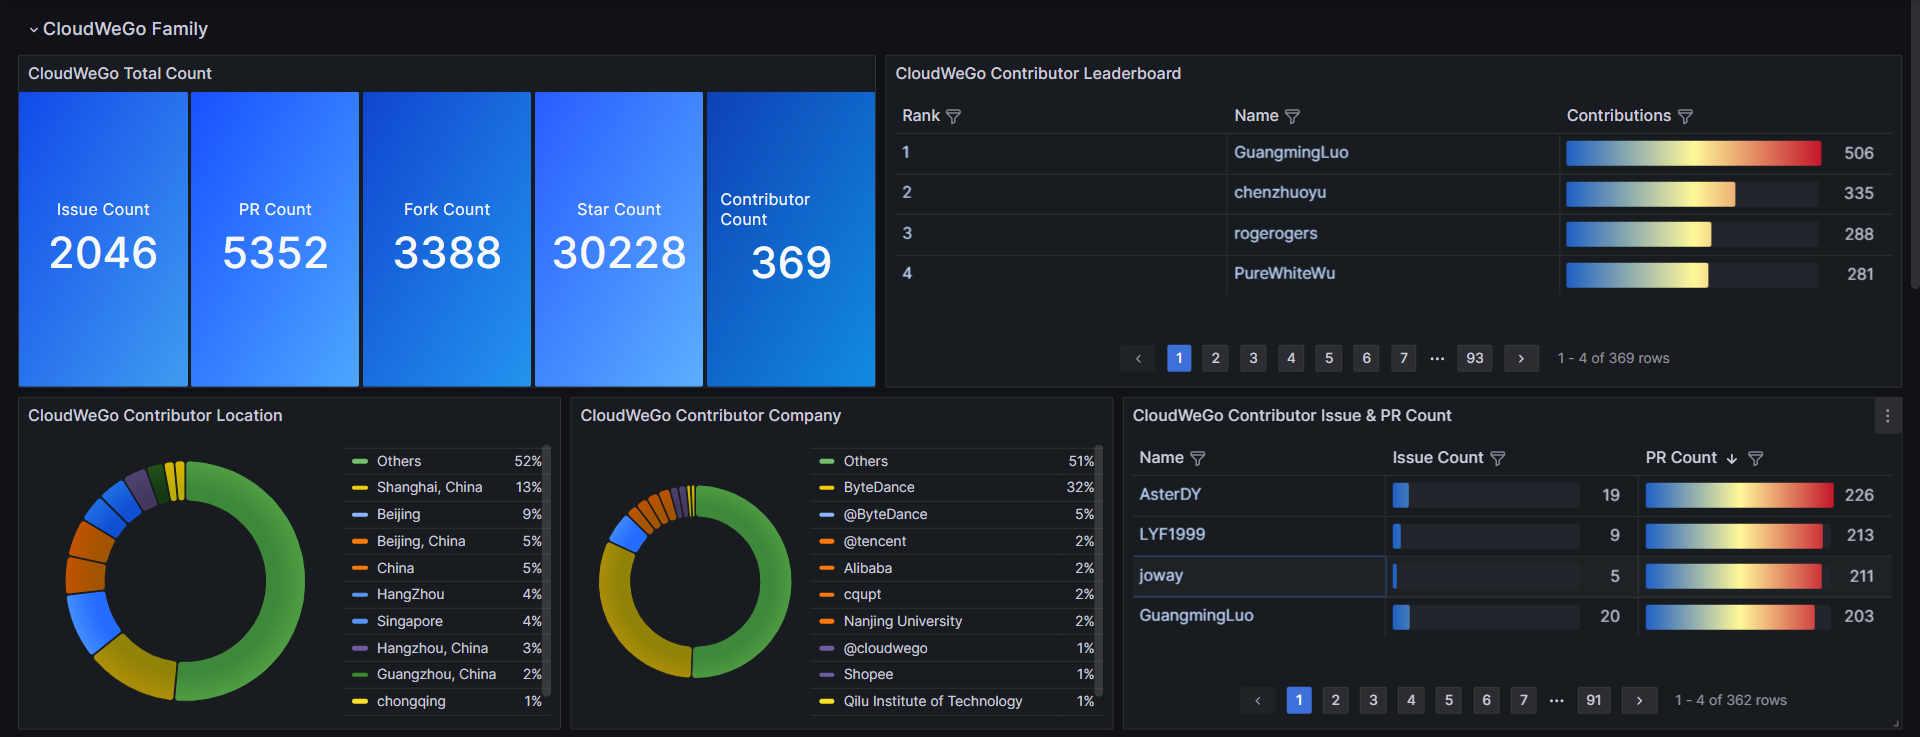
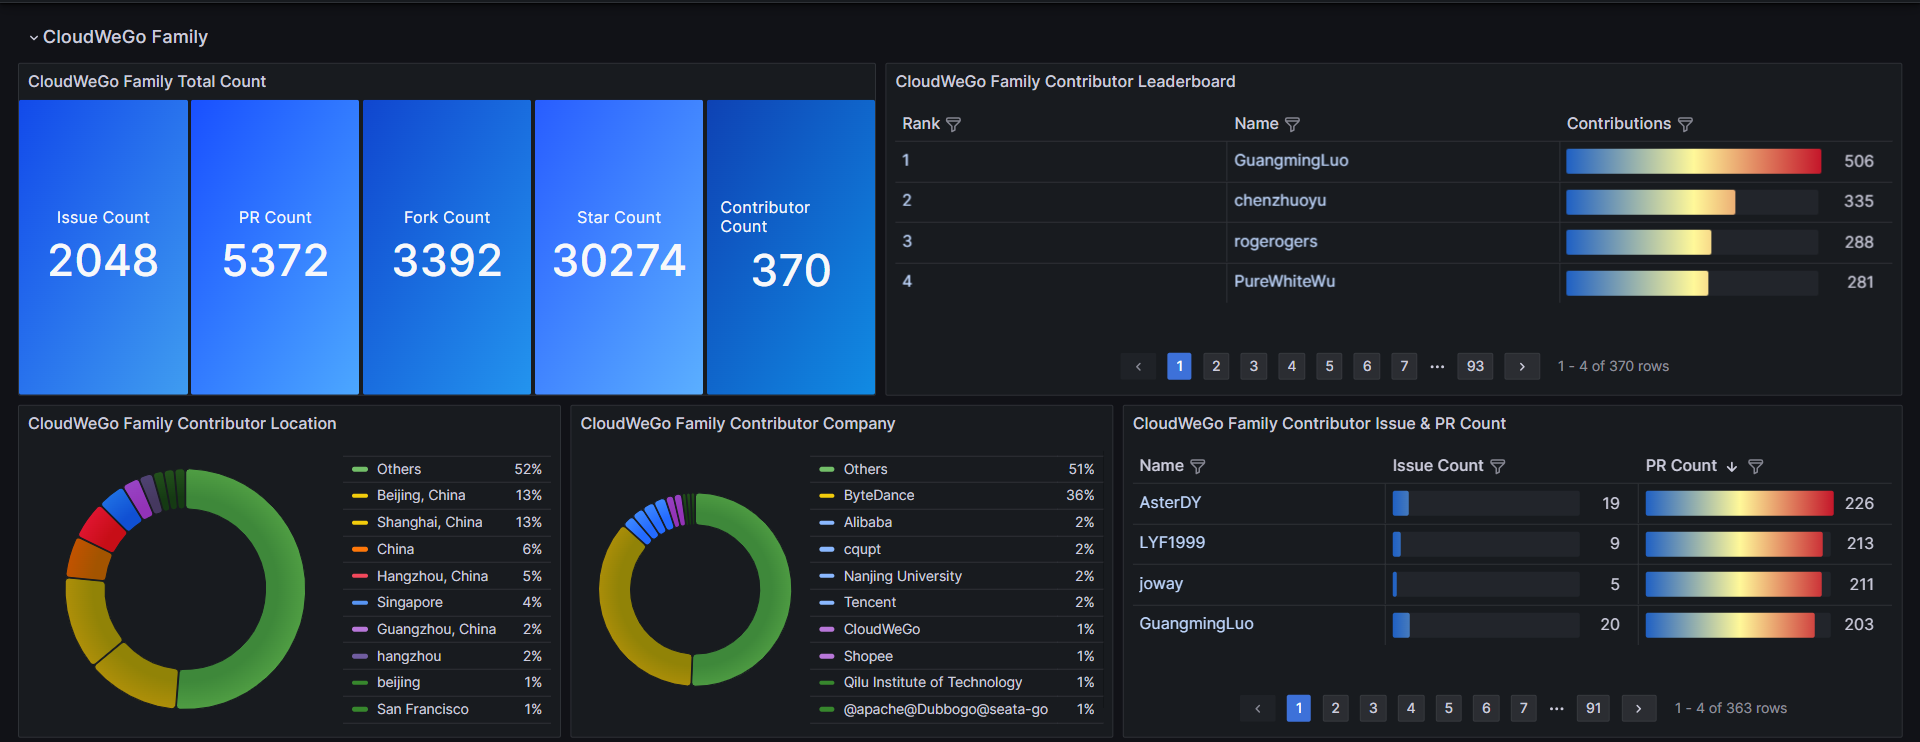
update example img

diff --git a/README.md b/README.md
@@ -34,6 +34,8 @@ TODO
 
 ![example-2](./images/example-2.png)
 
+![example-3](./images/example-3.png)
+
 ## Related Projects
 
 - [cwg-open-analysis](https://github.com/cloudwego-contrib/cwgo-open-analysis)
